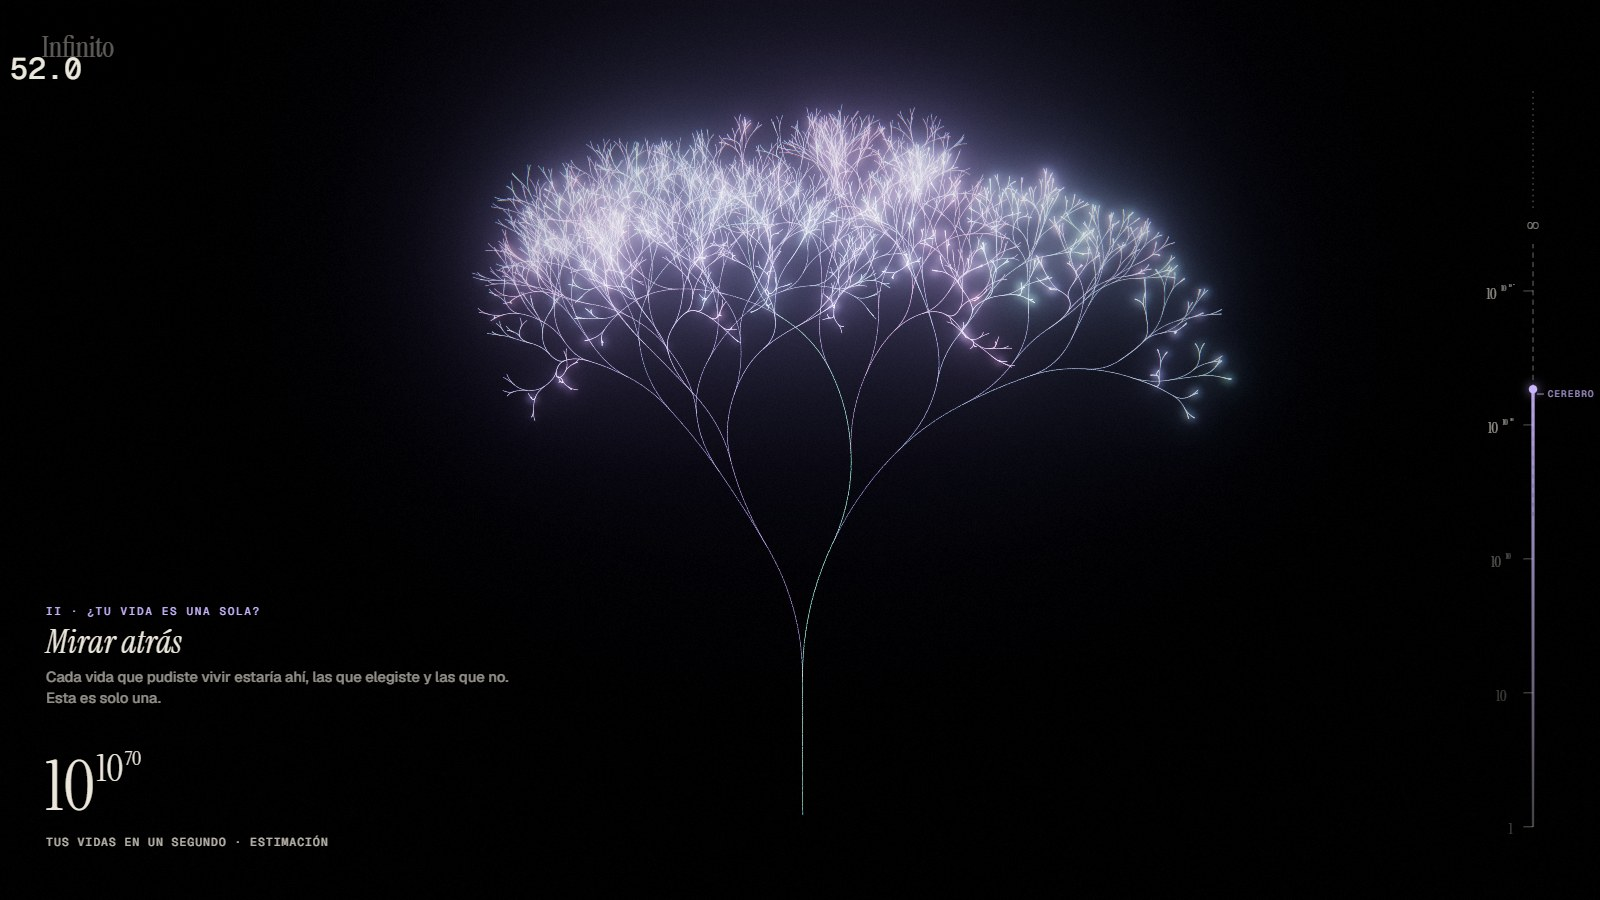
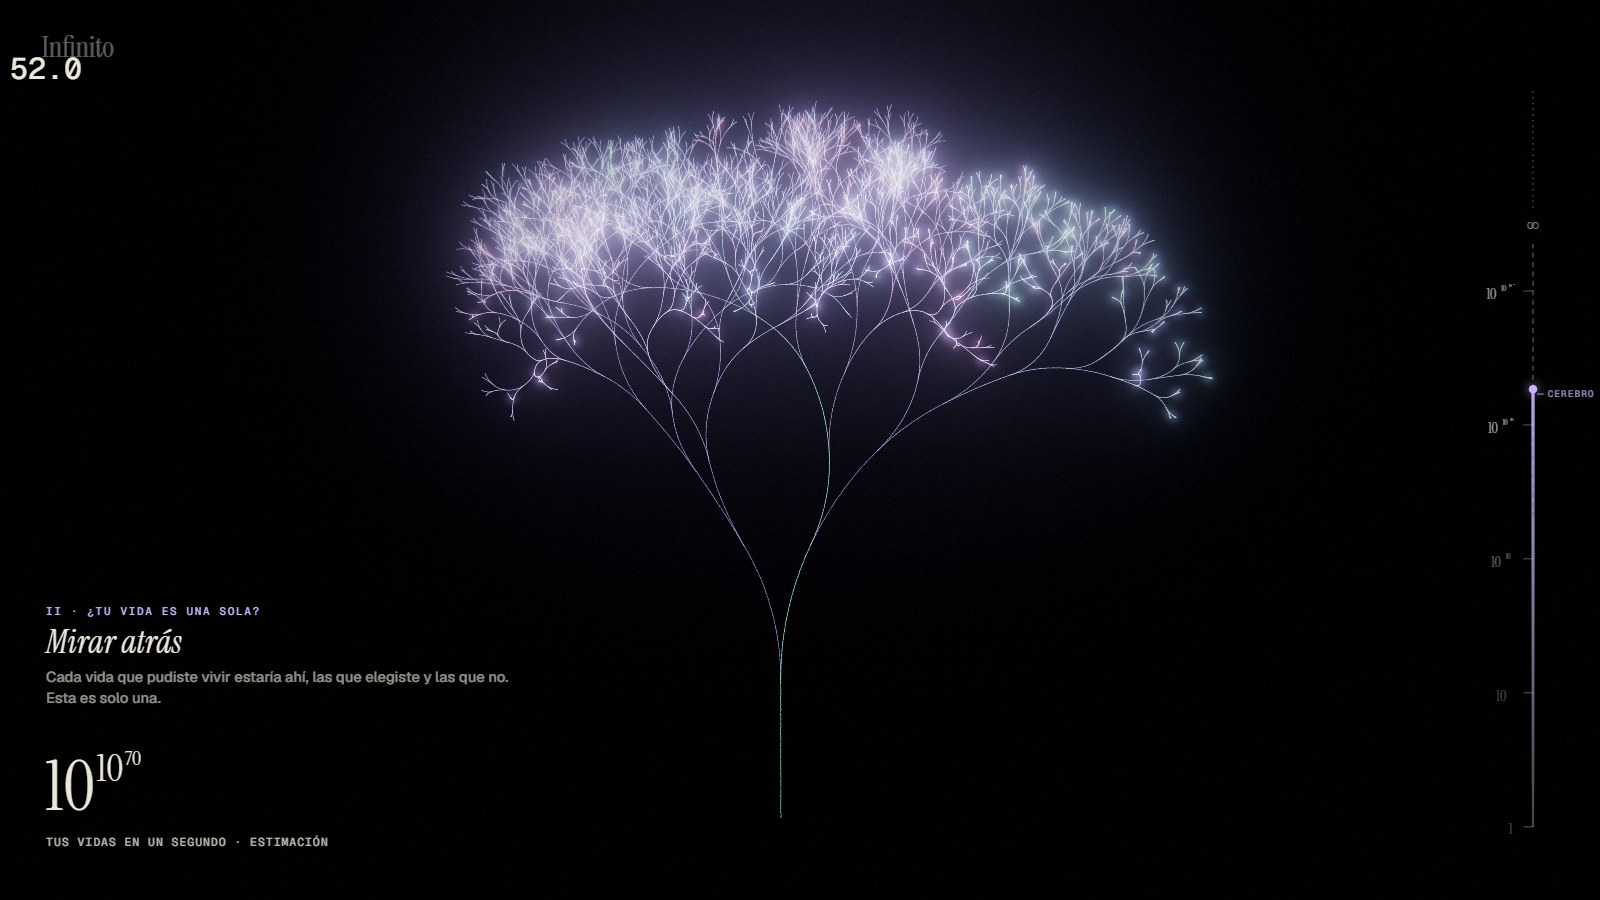
fix(act-2): close the bubble round the whole tree, root and trunk included

diff --git a/estudios/ramas.ts b/estudios/ramas.ts
@@ -88,8 +88,12 @@ function arbol(seed: number, G: number, ang: number, k: number, L0 = 1, sube = 0
   const splits = ramas.filter((x) => x.gen + 1 < G).map((x) => x.t1).sort((x, y) => x - y);
   const camino = ramas.filter((x) => x.tu).sort((x, y) => x.t0 - y.t0);
   const fin = Math.max(...ramas.map((x) => x.t1));
-  const centro = ramas.reduce((c, x) => c.add(x.b), V()).multiplyScalar(1 / ramas.length);
-  const radio = Math.max(...ramas.map((x) => x.b.distanceTo(centro)));
+  // The sphere that holds the whole tree, root and trunk included (its box's middle, out to the
+  // farthest point): the bubble of act III closes round it.
+  const box = new THREE.Box3();
+  for (const x of ramas) box.expandByPoint(x.a).expandByPoint(x.b);
+  const centro = box.getCenter(V());
+  const radio = Math.max(...ramas.flatMap((x) => [x.a.distanceTo(centro), x.b.distanceTo(centro)]));
   const zmin = Math.min(...ramas.map((x) => x.b.z));
   // Seen from the side the crown is wider one way than the other: its widest direction (the main axis
   // of the branch ends round the trunk), and how wide it is that way.
